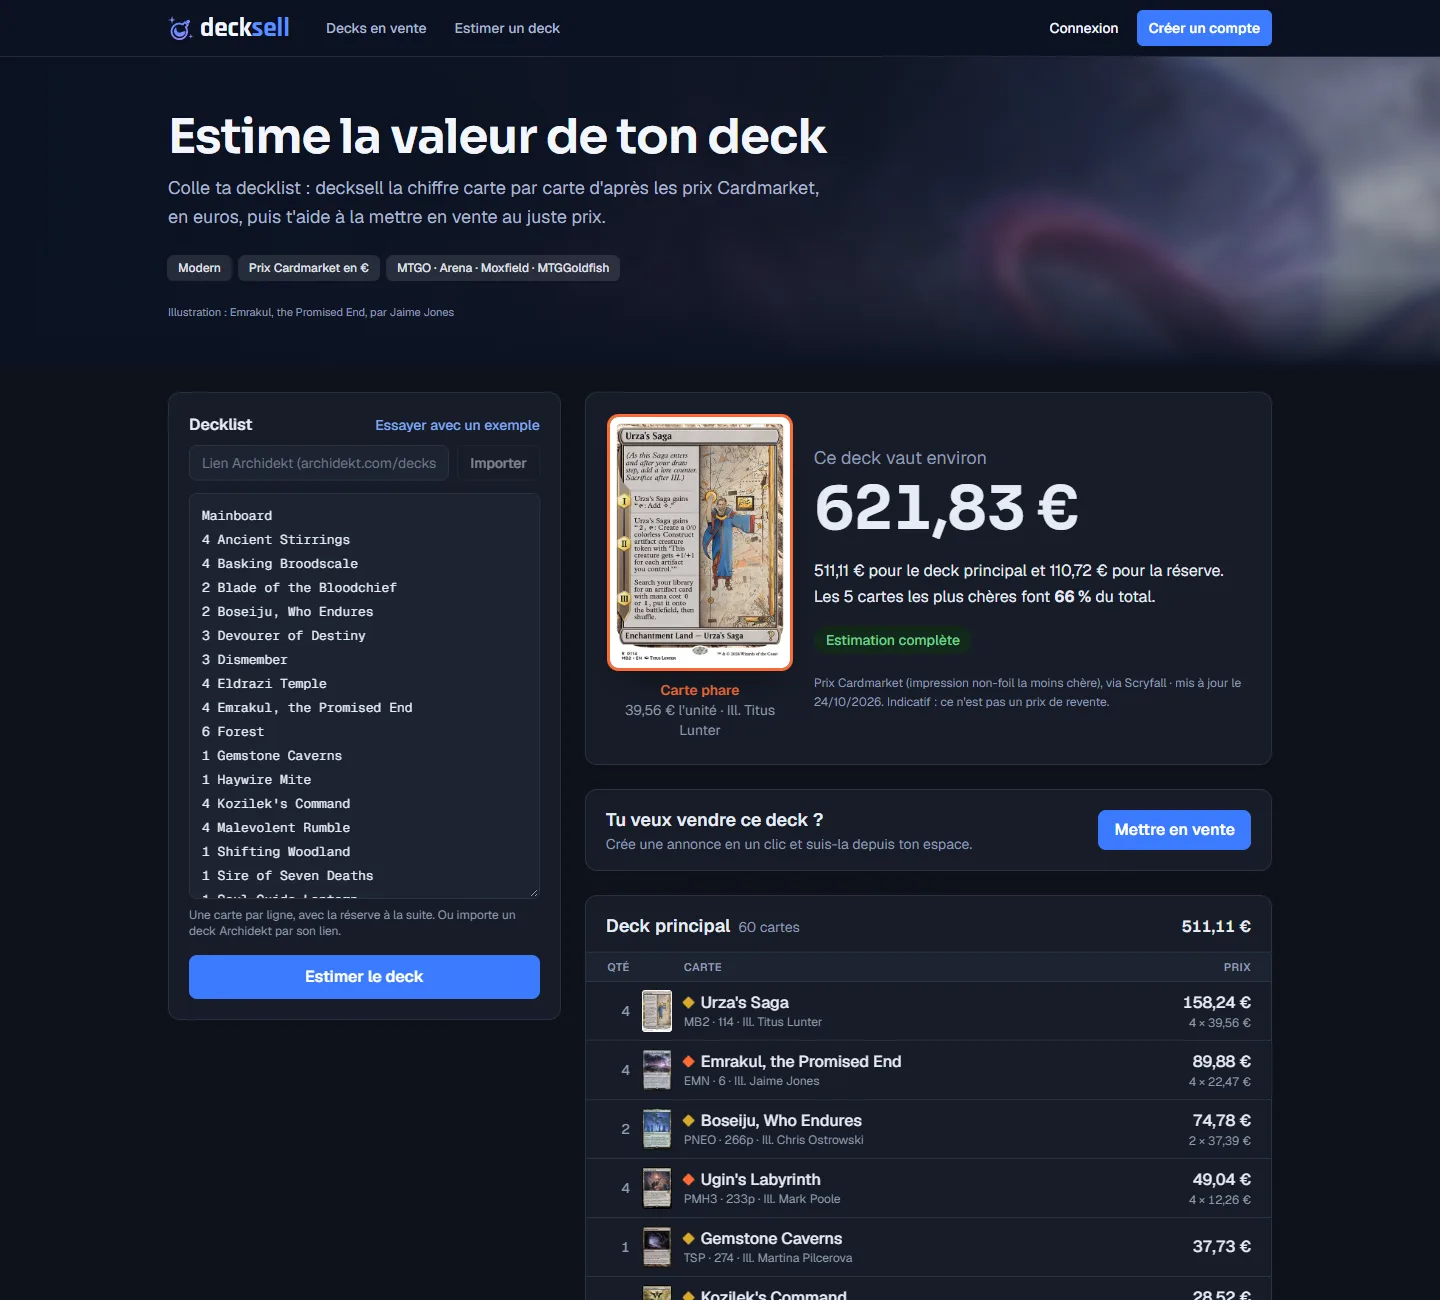
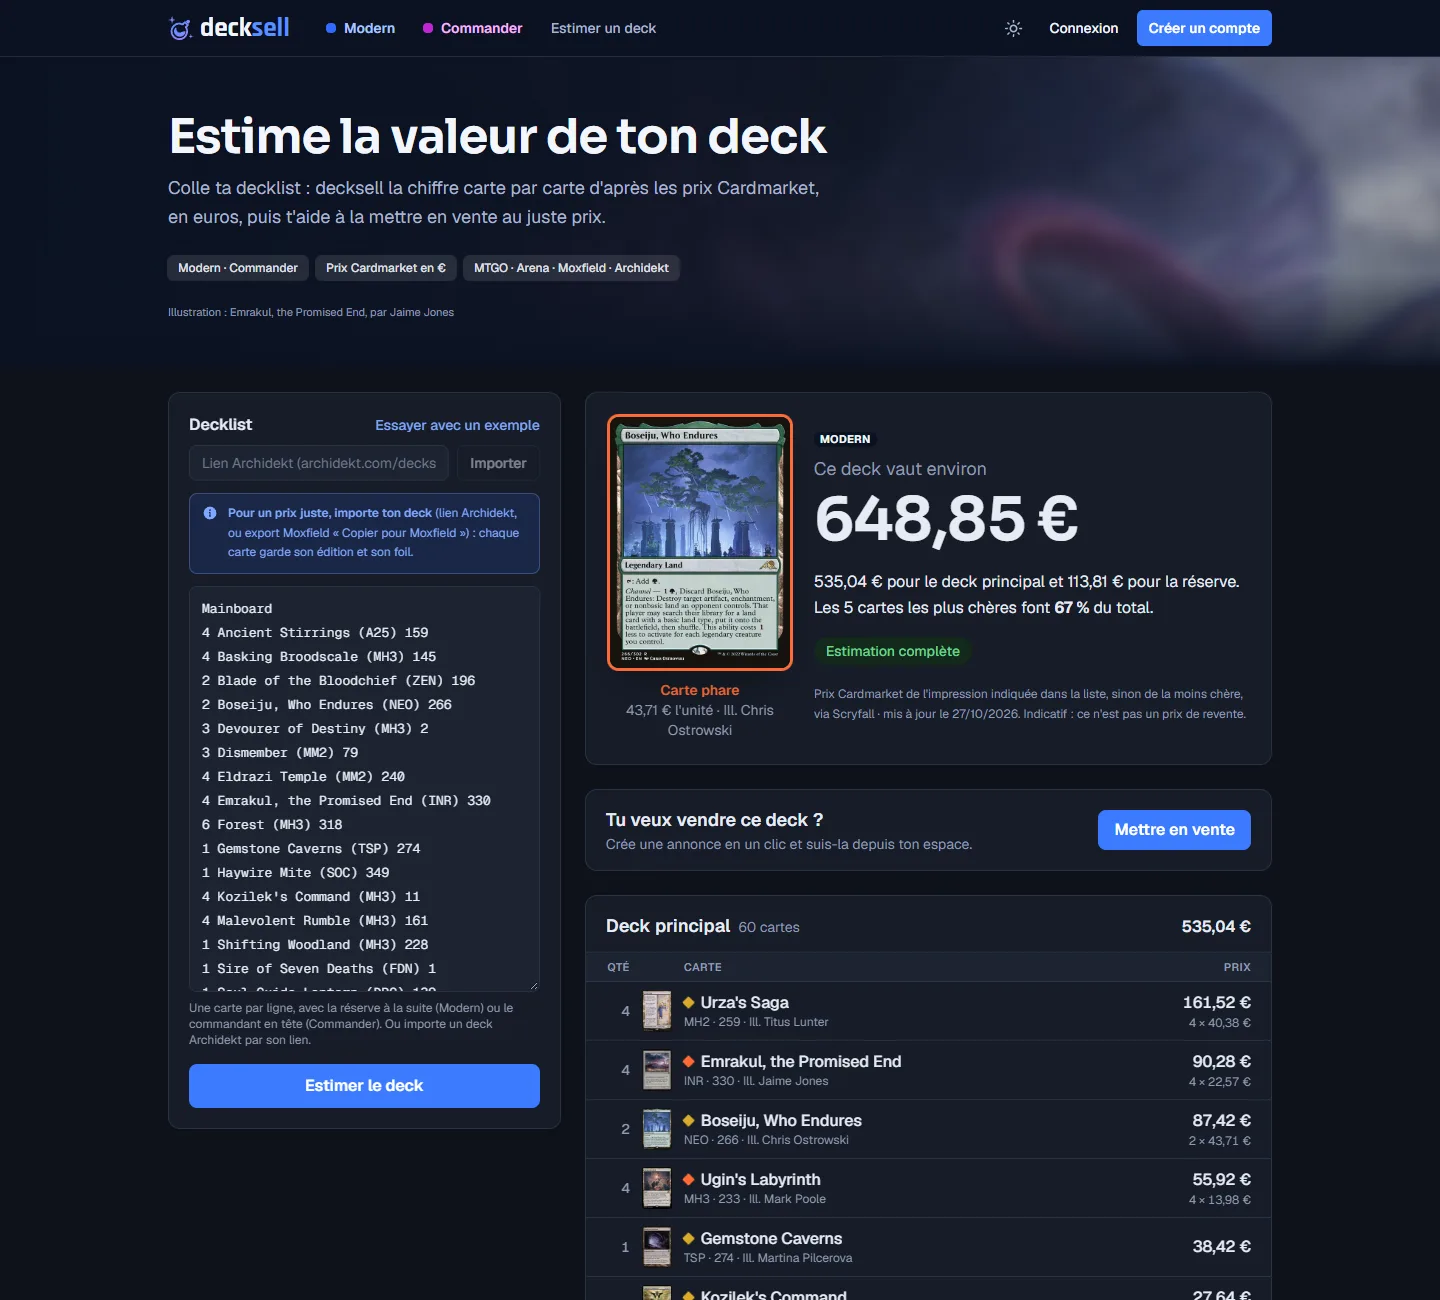
Refait les captures du README et donne ses éditions à l'exemple
Captures de l'accueil (deux formats) et d'une estimation, en 1440 px, thème
sombre. Le deck d'exemple de l'estimateur suit le format d'export Moxfield
(édition et numéro par carte), comme le conseille l'estimateur.

diff --git a/src/lib/sample-deck.ts b/src/lib/sample-deck.ts
@@ -1,37 +1,38 @@
-// Exemple pour le bouton « Essayer avec un exemple » (Eldrazi Ramp, Modern).
+// Exemple pour le bouton « Essayer avec un exemple » (Eldrazi Ramp, Modern), au format d'export
+// Moxfield : chaque carte avec son édition et son numéro, comme le conseille l'estimateur.
 export const SAMPLE_DECK = `Mainboard
-4 Ancient Stirrings
-4 Basking Broodscale
-2 Blade of the Bloodchief
-2 Boseiju, Who Endures
-3 Devourer of Destiny
-3 Dismember
-4 Eldrazi Temple
-4 Emrakul, the Promised End
-6 Forest
-1 Gemstone Caverns
-1 Haywire Mite
-4 Kozilek's Command
-4 Malevolent Rumble
-1 Shifting Woodland
-1 Sire of Seven Deaths
-1 Soul-Guide Lantern
-4 Sowing Mycospawn
-1 Springleaf Drum
-1 Talisman of Resilience
-4 Ugin's Labyrinth
-4 Urza's Saga
-1 Vexing Bauble
+4 Ancient Stirrings (A25) 159
+4 Basking Broodscale (MH3) 145
+2 Blade of the Bloodchief (ZEN) 196
+2 Boseiju, Who Endures (NEO) 266
+3 Devourer of Destiny (MH3) 2
+3 Dismember (MM2) 79
+4 Eldrazi Temple (MM2) 240
+4 Emrakul, the Promised End (INR) 330
+6 Forest (MH3) 318
+1 Gemstone Caverns (TSP) 274
+1 Haywire Mite (SOC) 349
+4 Kozilek's Command (MH3) 11
+4 Malevolent Rumble (MH3) 161
+1 Shifting Woodland (MH3) 228
+1 Sire of Seven Deaths (FDN) 1
+1 Soul-Guide Lantern (DRC) 139
+4 Sowing Mycospawn (MH3) 170
+1 Springleaf Drum (LRW) 261
+1 Talisman of Resilience (M3C) 314
+4 Ugin's Labyrinth (MH3) 233
+4 Urza's Saga (MH2) 259
+1 Vexing Bauble (MH3) 212
 
 Sideboard
-1 Cavern of Souls
-2 Disruptor Flute
-2 Grafdigger's Cage
-2 Nature's Claim
-1 Sire of Seven Deaths
-1 Thief of Existence
-2 Thought-Knot Seer
-2 Trinisphere
-1 Vexing Bauble
-1 Warping Wail
+1 Cavern of Souls (AVR) 226
+2 Disruptor Flute (MH3) 209
+2 Grafdigger's Cage (MM3) 221
+2 Nature's Claim (EMA) 178
+1 Sire of Seven Deaths (FDN) 1
+1 Thief of Existence (MH3) 174
+2 Thought-Knot Seer (OGW) 9
+2 Trinisphere (DST) 154
+1 Vexing Bauble (MH3) 212
+1 Warping Wail (OGW) 12
 `;
